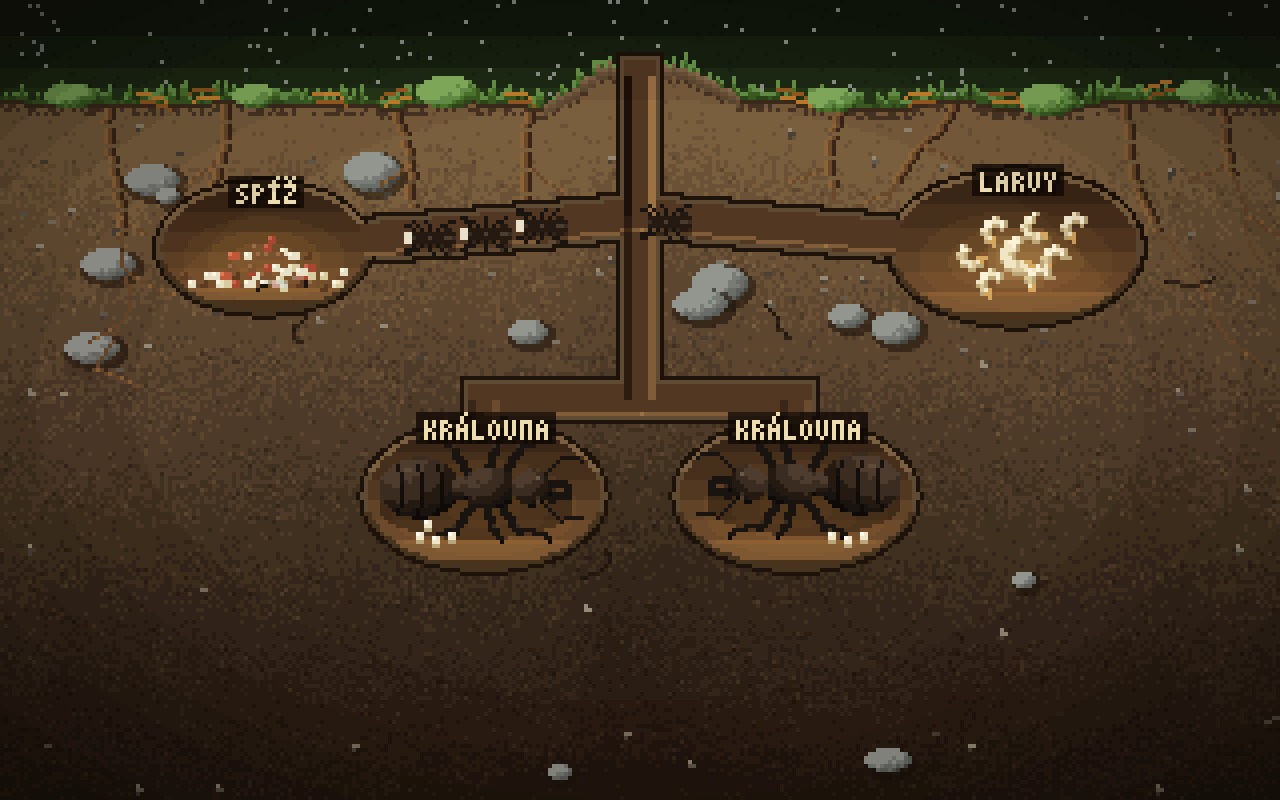
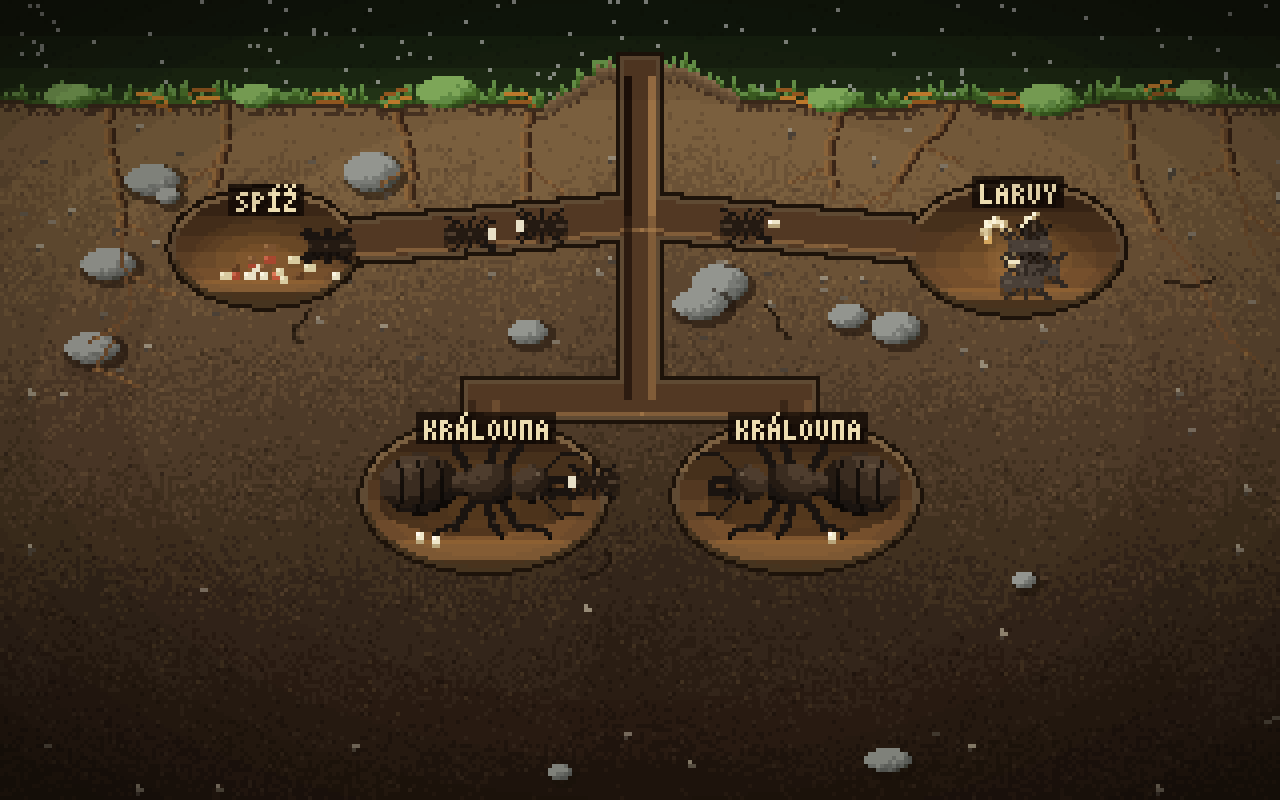
docs: nest life and caterpillar in README, regenerated underground screenshots

diff --git a/README.md b/README.md
@@ -19,15 +19,23 @@ npm run build    # kontrola typů + produkční build do dist/
 - **Přesunout**: tažením přemístíš položenou kořist. **Smazat**: kliknutím kořist odstraníš. **Posun**: tažení posouvá mapu.
 - **Kolečko myši** = zoom, **tažení** (v nástroji Posun nebo mimo kořist) = posun mapy, **pravé nebo prostřední tlačítko** = posun vždy. Na dotykovém displeji pinch = zoom, dva prsty = posun.
 - **Pohledy**: `1` běžný, `P` feromonový (pohled mravenců: ztmavená mapa, modrá stopa k potravě, oranžová záře kolem hnízda), `T` průchodnost terénu (červená kameny, oranžová větvičky, žlutá jehličí).
-- **Podzemí** (tlačítko `Podzemí (U)` nebo klávesa `U`): řez hnízdem. Komůrky královen (jedna na každou královnu, roste s počtem mravenců), komůrka larev (roste s počtem larev) a spíž (roste se zásobou). Mravenci s úlovkem do ní scházejí chodbou, čerstvě vylíhlí vycházejí ven. Mapu a kořist v tomto pohledu nelze ovládat (tlačítka kořisti jsou zašedlá); svět se mezitím dál simuluje. Návrat kterýmkoli povrchovým pohledem vše obnoví.
+- **Podzemí** (tlačítko `Podzemí (U)` nebo klávesa `U`): řez hnízdem. Komůrky královen (jedna na každou královnu, roste s počtem mravenců), komůrka larev (roste s počtem larev) a spíž (roste se zásobou). Mravenci uvnitř hnízda jsou skuteční: vidíš každého (nejvýše 60 najednou) při práci, viz Život v hnízdě. Mapu a kořist v tomto pohledu nelze ovládat (tlačítka kořisti jsou zašedlá); svět se mezitím dál simuluje. Návrat kterýmkoli povrchovým pohledem vše obnoví.
 - **Nová hra** (vpravo nahoře) po potvrzení smaže uložený postup a začne znovu.
-- Vlevo nahoře ukazuje počet mravenců a zásobu potravy (v Podzemí rozšířený přehled).
+- Vlevo nahoře ukazuje počet mravenců (a menším písmem, kolik jich je právě na povrchu) a zásobu potravy (v Podzemí rozšířený přehled).
 
 ## Pravidla hnízda
 
 - Královna za **5 jídla** vylíhne jednoho mravence, a to **každých 10 s** (dokud má v zásobě aspoň 5). Zásoba potravy z kořisti se tak mění na larvy a mravence.
 - Za každých **100 jídla** donesených celkem přibude další **královna** (nejvýše 8) a líhnutí se úměrně zrychlí (s `n` královnami líhne jedna každých `10 / n` s).
 - V Podzemí ukazuje lišta nahoře královny, larvy, zásobu a mravence, ukazatel dalšího líhnutí a kolik jídla chybí do další královny.
+
+## Život v hnízdě
+
+Každý mravenec stráví v hnízdě skutečný čas. Čerstvě vylíhlý mravenec zůstává **asi 30 s** uvnitř mezi larvami jako světlejší, šedohnědý „callow“ (mládě), a teprve potom chodbou vyjde na povrch. Pracovník, který donesl potravu, se **asi 5 s** zdrží v hnízdě: s drobtem sejde šachtou do spíže, vyloží ho a vrátí se k východu. Kromě toho v hnízdě trvale pracují **ošetřovatelky** (nikdy nevycházejí ven; jejich počet roste s počtem královen a larev): nosí královně drobky ze spíže a krmí ji, přenášejí vajíčka od královen do komůrky larev a o larvy pečují. Podzemní pohled všechny tyto mravence kreslí podle jejich skutečného stavu, takže se při opuštění a návratu do pohledu nic neposouvá; vajíčko, které ošetřovatelka nese, zmizí z hromádky u královny.
+
+## Kořist: živá housenka
+
+Housenka se po mapě plazí (pomaleji než brouk), tělo se jí vlní. Když se jí první mravenec dotkne, na chvíli zrychlí a uteče (vlna běží dvakrát rychleji a tělo se natáhne); při druhém doteku zahyne a zbude po ní stočená zdechlina s bledě žlutými kapkami, kterou mravenci rozdělí na dílky jako ostatní zdechliny. V pheromonovém a terénním pohledu je to stejná tečka jako každá jiná potrava.
 
 ## Ukládání
 
